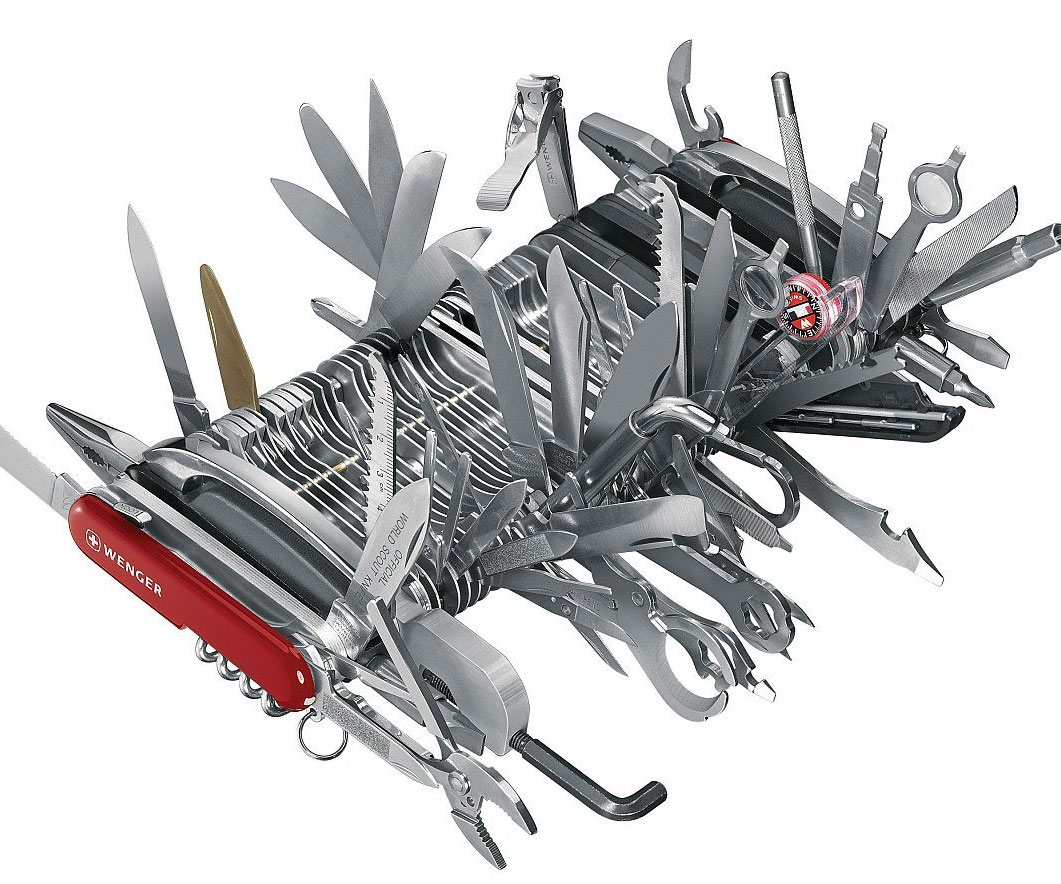
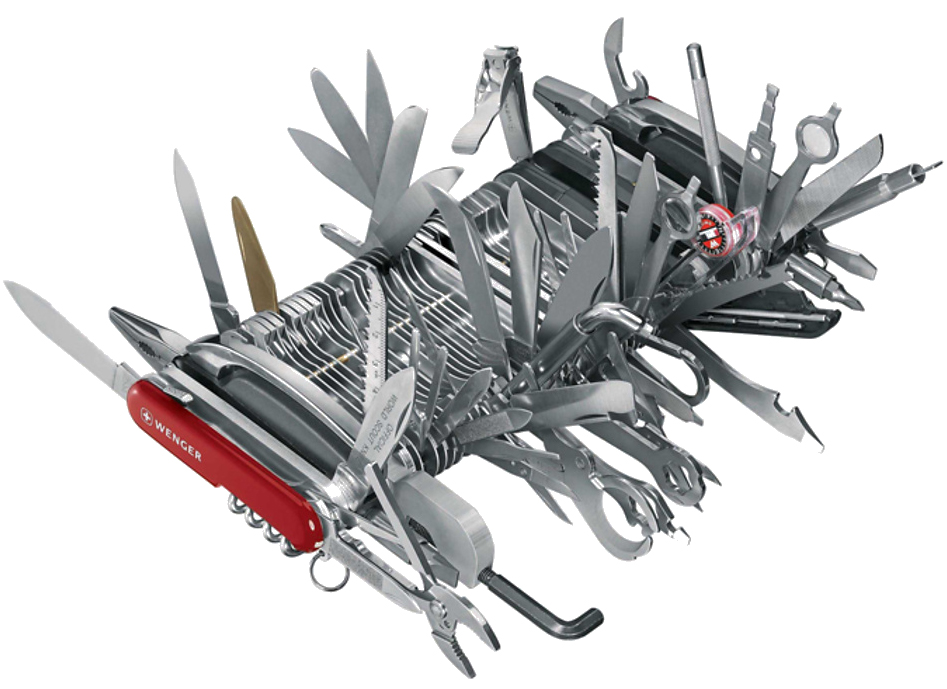
Not a good app

diff --git a/sessions/01/README.md b/sessions/01/README.md
@@ -123,7 +123,9 @@ To use an analogy, if a website is like a *book*, which you use to find and cons
 
 Apps generally have a specific function, or a small set of functions. They are not trying to do everything.
 
-![](assets/swiss-army-knife.jpg)
+![](assets/swiss-army-knife.png)
+
+This is *not* a good app. It is not **usable**, even though all the tools it features could be usable (and possibly useful) on their own.
 
 ### **How long** does it take to make an **app**?
 
